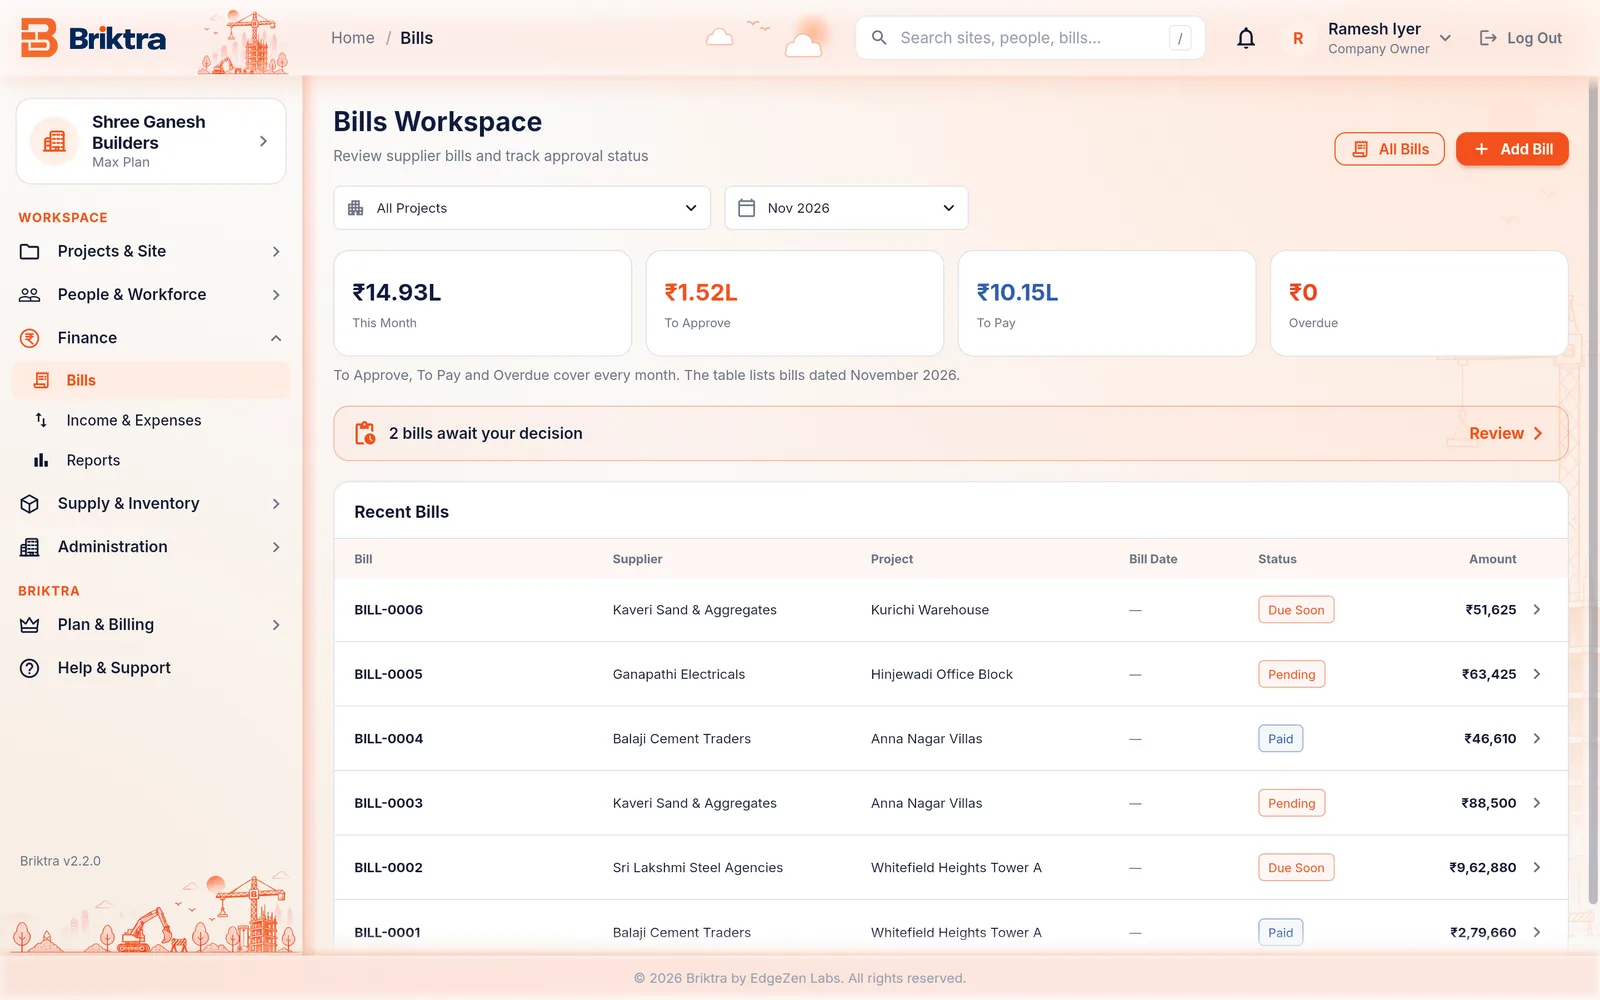
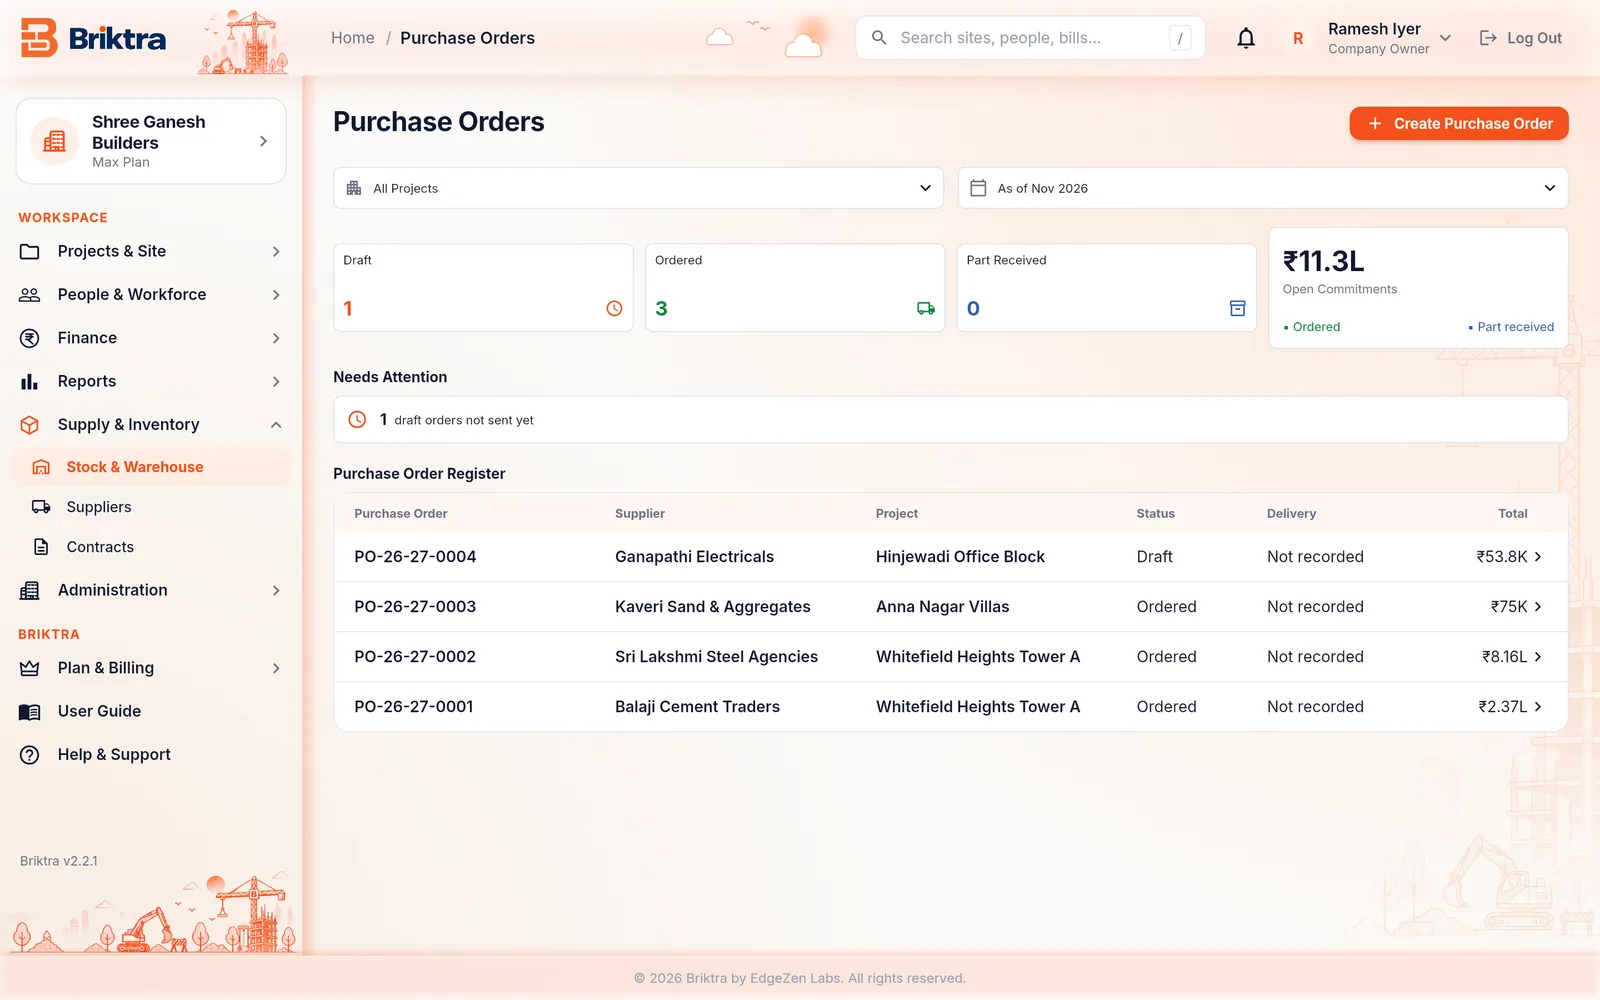
Home hero: each module shows its own screens and live cards
Stock reused the Purchases screenshot, and the Purchases screenshot was in
fact the Bills screen. Stock now shows Stock & Warehouse and Purchases shows
the Purchase Orders register, on the web and the phone, all from the demo
company. The three floating cards change with the module and quote what that
module's screen shows, instead of the same three cards for every module.

diff --git a/src/components/site/Experience.tsx b/src/components/site/Experience.tsx
@@ -1,6 +1,6 @@
 import { useEffect, useRef, useState, type ReactNode } from "react";
 import { Link } from "react-router-dom";
-import { ArrowRight, BadgeIndianRupee, CheckCircle2, Clock3, HardHat, Lock, Package, ReceiptText, Sparkles, Wallet } from "lucide-react";
+import { AlertTriangle, ArrowRight, BadgeIndianRupee, BarChart3, Camera, CheckCircle2, Clock3, HardHat, Home, Lock, Package, ReceiptText, Sparkles, Truck, Users, Wallet } from "lucide-react";
 import { Button } from "@/components/ui/button";
 import { appLinks } from "@/lib/app-links";
 import { FEATURE_GROUPS, type ShotKey } from "@/lib/content";
@@ -68,15 +68,88 @@ const CountUp = ({ to, prefix = "", suffix = "" }: { to: number; prefix?: string
 };
 
 /** The hero's modules: each chip shows that module's real screens and links to its page. */
-const HERO_MODULES: { label: string; web: ShotKey; phone: ShotKey; slug: string; screen: string }[] = [
-  { label: "Attendance", web: "dashboard", phone: "attendance", slug: "labour-payroll", screen: "attendance" },
-  { label: "Payroll", web: "payRun", phone: "attendance", slug: "labour-payroll", screen: "the weekly pay run" },
-  { label: "Site Cash", web: "siteCash", phone: "dailyUpdates", slug: "site-management", screen: "site cash and daily updates" },
-  { label: "Purchases", web: "purchase", phone: "stock", slug: "purchase-stock", screen: "purchase orders" },
-  { label: "Stock", web: "purchase", phone: "stock", slug: "purchase-stock", screen: "stock" },
-  { label: "BOQ & Billing", web: "boq", phone: "raBill", slug: "boq-billing", screen: "the BOQ and RA bills" },
-  { label: "Home Buyers", web: "units", phone: "customerApp", slug: "customers", screen: "units and the home buyer app" },
-  { label: "Reports", web: "reports", phone: "dashboard", slug: "control-reports", screen: "reports and the dashboard" },
+type HeroCard = { icon: typeof CheckCircle2; tone: string; title: string; sub: string };
+
+const GREEN = "bg-emerald-500/20 text-emerald-300";
+const ORANGE = "bg-primary/25 text-orange-200";
+const BLUE = "bg-sky-500/20 text-sky-200";
+
+/**
+ * Each module shows its own web and phone screens and three live cards, all
+ * from the demo company, so the cards always match the screen behind them.
+ */
+const HERO_MODULES: { label: string; web: ShotKey; phone: ShotKey; slug: string; screen: string; cards: HeroCard[] }[] = [
+  {
+    label: "Attendance", web: "dashboard", phone: "attendance", slug: "labour-payroll", screen: "attendance",
+    cards: [
+      { icon: CheckCircle2, tone: GREEN, title: "9 of 9 present", sub: "Anna Nagar Villas · 7:58 AM" },
+      { icon: Users, tone: BLUE, title: "32 present today", sub: "4 sites · 100% attendance" },
+      { icon: HardHat, tone: ORANGE, title: "Marked from the site", sub: "On the supervisor's phone" },
+    ],
+  },
+  {
+    label: "Payroll", web: "payRun", phone: "attendance", slug: "labour-payroll", screen: "the weekly pay run",
+    cards: [
+      { icon: CheckCircle2, tone: GREEN, title: "Pay run approved", sub: "32 workers · 4 sites" },
+      { icon: BadgeIndianRupee, tone: ORANGE, title: "₹1,69,965 paid", sub: "Weekly pay run · UPI and cash" },
+      { icon: Wallet, tone: BLUE, title: "Salary on every phone", sub: "Days worked, advances and pay" },
+    ],
+  },
+  {
+    label: "Site Cash", web: "siteCash", phone: "dailyUpdates", slug: "site-management", screen: "site cash and daily updates",
+    cards: [
+      { icon: Wallet, tone: GREEN, title: "₹61,950 cash at site", sub: "Within the ₹75,000 imprest limit" },
+      { icon: ReceiptText, tone: ORANGE, title: "2 bills to approve", sub: "₹1.52 L waiting · all sites" },
+      { icon: Camera, tone: BLUE, title: "Daily update posted", sub: "Anna Nagar Villas · with photos" },
+    ],
+  },
+  {
+    label: "Purchases", web: "purchase", phone: "purchase", slug: "purchase-stock", screen: "purchase orders",
+    cards: [
+      { icon: CheckCircle2, tone: GREEN, title: "Purchase order approved", sub: "600 bags of cement · Tower A" },
+      { icon: BadgeIndianRupee, tone: ORANGE, title: "₹11.3 L on order", sub: "3 orders placed with suppliers" },
+      { icon: Clock3, tone: BLUE, title: "1 draft to send", sub: "Ganapathi Electricals · ₹53.8K" },
+    ],
+  },
+  {
+    label: "Stock", web: "stock", phone: "stock", slug: "purchase-stock", screen: "stock",
+    cards: [
+      { icon: Package, tone: GREEN, title: "₹13.86 L in stock", sub: "6 materials · none running low" },
+      { icon: Truck, tone: BLUE, title: "480 bags allocated", sub: "Cement · Whitefield Heights" },
+      { icon: Truck, tone: ORANGE, title: "9,000 kg steel allocated", sub: "TMT steel · Whitefield Heights" },
+    ],
+  },
+  {
+    label: "BOQ & Billing", web: "boq", phone: "raBill", slug: "boq-billing", screen: "the BOQ and RA bills",
+    cards: [
+      { icon: ReceiptText, tone: BLUE, title: "RA bill approved", sub: "Tower A · ₹1.48 Cr net" },
+      { icon: CheckCircle2, tone: GREEN, title: "BOQ approved", sub: "Numbered and locked" },
+      { icon: BadgeIndianRupee, tone: ORANGE, title: "Retention tracked", sub: "Released when it falls due" },
+    ],
+  },
+  {
+    label: "Home Buyers", web: "units", phone: "customerApp", slug: "customers", screen: "units and the home buyer app",
+    cards: [
+      { icon: Home, tone: GREEN, title: "Villa 1 · 60% built", sub: "58% of instalments paid" },
+      { icon: BadgeIndianRupee, tone: ORANGE, title: "Instalment received", sub: "Linked to the stage completed" },
+      { icon: Users, tone: BLUE, title: "Buyer signed in", sub: "Progress, photos and payments" },
+    ],
+  },
+  {
+    label: "Reports", web: "reports", phone: "dashboard", slug: "control-reports", screen: "reports and the dashboard",
+    cards: [
+      { icon: BarChart3, tone: GREEN, title: "17.0% company margin", sub: "FY 2026-27 · all sites" },
+      { icon: AlertTriangle, tone: ORANGE, title: "2 projects delayed", sub: "Of 4 · see Project Status" },
+      { icon: BadgeIndianRupee, tone: BLUE, title: "₹49.65 L net cash", sub: "All sites this year" },
+    ],
+  },
+];
+
+/** Where the three cards sit around the screens. The third hides on phones. */
+const CARD_PLACE = [
+  "-left-4 top-2 sm:-left-10",
+  "-left-2 bottom-16 sm:-left-14",
+  "right-6 -top-4 hidden sm:block",
 ];
 
 const AUTO_ADVANCE_MS = 3200;
@@ -228,9 +301,10 @@ export const CinematicHero = () => {
               <PhoneFrame priority shotKey={module.phone} alt={`Briktra Android app showing ${module.screen}`} />
             </div>
           </div>
-          <LiveCard icon={CheckCircle2} tone="bg-emerald-500/20 text-emerald-300" title="9 of 9 present" sub="Anna Nagar Villas · 7:58 AM" className="-left-4 top-2 sm:-left-10" delay={300} />
-          <LiveCard icon={BadgeIndianRupee} tone="bg-primary/25 text-orange-200" title="₹1,69,965 paid" sub="Weekly pay run · UPI and cash" className="-left-2 bottom-16 sm:-left-14" delay={900} />
-          <LiveCard icon={ReceiptText} tone="bg-sky-500/20 text-sky-200" title="RA bill approved" sub="Tower A · ₹1.48 Cr net" className="right-6 -top-4 hidden sm:block" delay={1500} />
+          {/* Keyed by module, so the cards pop in again when the module changes. */}
+          {module.cards.map((c, i) => (
+            <LiveCard key={`${module.label}-${i}`} icon={c.icon} tone={c.tone} title={c.title} sub={c.sub} className={CARD_PLACE[i]} delay={200 + i * 250} />
+          ))}
         </div>
       </div>
 
